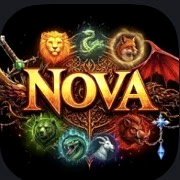
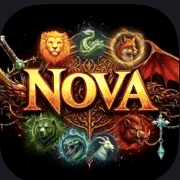
perf: alleger le premier chargement des membres
Les quatre icones PNG pesaient 718 Ko a elles seules, plus que tout le
JavaScript une fois compresse par GitHub Pages. Reencodees en palette 256
couleurs : 252 Ko, dimensions inchangees, aucune difference visible.

L'icone 512 sort du prechargement du service worker : elle ne sert qu'a
l'installation sur l'ecran d'accueil, le gestionnaire fetch la mettra en
cache le jour ou elle est demandee.

Les fichiers versionnes passent en cache-first : le nom du cache contient
deja le SHA du commit et les anciens caches sont supprimes a l'activation,
donc revalider ne pouvait rien apporter.

diff --git a/sw.js b/sw.js
@@ -16,12 +16,16 @@
 const BUILD_VERSION = "__BUILD_VERSION__";
 const CACHE_PREFIX = "conf7ds-";
 const CACHE = CACHE_PREFIX + BUILD_VERSION;
+/* Seule la petite icône est préchargée. La 512 (350 Ko) ne sert qu'à
+   l'installation sur l'écran d'accueil : la faire télécharger par chaque membre
+   au premier chargement coûtait plus qu'elle ne rapportait. Le gestionnaire
+   `fetch` la met en cache le jour où elle est réellement demandée. */
 const CORE_ASSETS = [
   "./", "./index.html",
   "./data.js", "./stats-build.js", "./potentiels.js", "./armures-liees.js",
   "./personnages-meta.js", "./supabase-config.js",
   "./manifest.webmanifest",
-  "./icons/icon-192.png", "./icons/icon-512.png"
+  "./icons/icon-192.png"
 ];
 const CORE_PATHS = new Set(
   CORE_ASSETS.map(asset => new URL(asset, self.registration.scope).pathname)
@@ -81,6 +85,26 @@ async function networkFirst(request, fallbackKey){
   }
 }
 
+/* Cache d'abord, sans aller-retour réseau. Réservé aux fichiers dont la
+   fraîcheur est déjà garantie par le nom du cache : celui-ci contient le SHA du
+   commit déployé et les caches des versions précédentes sont supprimés à
+   l'activation. Une entrée trouvée ici appartient donc forcément à la version
+   courante — la revalider coûterait un téléchargement pour rien. */
+async function cacheFirst(request){
+  const cache = await caches.open(CACHE);
+  const cached = await cache.match(request);
+  if(cached) return cached;
+  try{
+    const response = await fetch(request);
+    if(response && response.ok && !response.redirected){
+      cache.put(request, response.clone()).catch(() => {});
+    }
+    return response;
+  }catch(error){
+    return Response.error();
+  }
+}
+
 /* Réponse immédiate depuis le cache, rafraîchissement en arrière-plan. */
 function staleWhileRevalidate(event, request){
   const cachePromise = caches.open(CACHE);
@@ -125,8 +149,11 @@ self.addEventListener("fetch", event => {
     return;
   }
 
+  // Le document reste en `networkFirst` au-dessus : c'est lui qui fait découvrir
+  // un nouveau déploiement. Les fichiers versionnés, eux, sont servis depuis le
+  // cache sans requête : mesuré à 2,3 Mo retéléchargés inutilement par visite.
   if(CORE_PATHS.has(url.pathname)){
-    event.respondWith(networkFirst(request));
+    event.respondWith(cacheFirst(request));
     return;
   }
 
